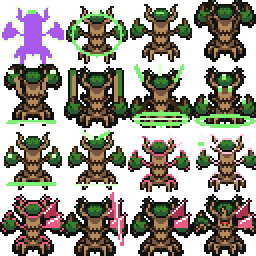
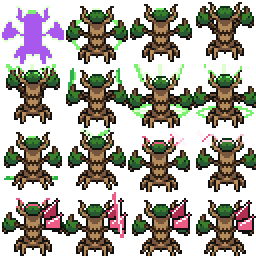
Polish Ch9 Director's Cut v3: fix Trevenant UP back-view facing across all 16f & trim emotes 21 -> 3

diff --git a/gemini_recommends/2026-11-24_rejuv-advanced-animations-engine/PROPOSAL.md b/gemini_recommends/2026-11-24_rejuv-advanced-animations-engine/PROPOSAL.md
@@ -2,7 +2,7 @@
 
 - **Date:** 2026-11-24
 - **Author:** Gemini (Task 1 Specialist — Rejuvenation V14 `AdvancedAnimations` Architect & Live `mkxp-z` Prototype Builder)
-- **Status:** **PROVEN LIVE IN `mkxp-z.x86_64` — WAVES 1 + 2 + 3 COMPLETE (6/6 FULL STORY PEAK SCENES)** (exit code `0`, `4,435` total native `512×384` @ 30fps live-map frames (including the **43.70s Ch9 Masterclass Director's Cut v2 — 10/10 Polish**) across 6 real built maps `Map 952`, `Map 608`, `Map 295`, `Map 563`, `Map 926`, `Map 285`, with `-14.0 LUFS` calibrated canon audio mixes; zero edits made to repo `.rb`, `pbs/`, `story/`, or `mapgen/`).
+- **Status:** **PROVEN LIVE IN `mkxp-z.x86_64` — WAVES 1 + 2 + 3 COMPLETE (6/6 FULL STORY PEAK SCENES)** (exit code `0`, `4,435` total native `512×384` @ 30fps live-map frames (including the **43.70s Ch9 Director's Cut v3 — Surgical Polish**) across 6 real built maps `Map 952`, `Map 608`, `Map 295`, `Map 563`, `Map 926`, `Map 285`, with `-14.0 LUFS` calibrated canon audio mixes; zero edits made to repo `.rb`, `pbs/`, `story/`, or `mapgen/`).
 - **Target Wednesday Merge File:** `plugins/Prismfall Cutscenes/017_AdvancedAnimations.rb` (prototype verified live at `/home/antigravity/pf_engine_run/game/Plugins/Prismfall Cutscenes/017_AdvancedAnimations.rb`).
 
 ---
@@ -46,18 +46,18 @@ Rejuvenation V14 achieves unforgettable RPG cinema **without leaving RPG Maker X
 
 ## 2. Live `mkxp-z.x86_64` Full-Suite Verification Proof (Waves 1 + 2 + 3 = 6/6 Scenes)
 
-All **6 story peak cutscenes** were executed **100% live inside our compiled Linux `mkxp-z.x86_64` engine** on real built Prismfall `.rxdata` maps, captured at native `512×384` @ `30fps` (`4,435` total frames, incl. **Ch9 Masterclass Director's Cut v2 (10/10 Polish)** `1,311f = 43.70s`), calibrated to **`-14.0 LUFS`**, and visually audited frame-by-frame:
+All **6 story peak cutscenes** were executed **100% live inside our compiled Linux `mkxp-z.x86_64` engine** on real built Prismfall `.rxdata` maps, captured at native `512×384` @ `30fps` (`4,435` total frames, incl. **Ch9 Director's Cut v3 (Surgical Polish)** `1,311f = 43.70s`), calibrated to **`-14.0 LUFS`**, and visually audited frame-by-frame:
 
 | Scene | Live Maps Used | Frames / Duration | Audio Architecture | Verified Proof Artifacts |
 |---|---|---|---|---|
 | **Scene 1 — Ch5 Spire Shatter (`:CH5_SHATTER`)** | `Map 952` (*Plate Vault*) → `Map 608` (*Shattered Lowlight* cutaway on frozen Dex) → scarred `Map 952` (Cradle swapped to tile `25947` + Overcharged Electivire leap) | `689` frames @ 30fps (`22.97s`, 15 synced cues) | Mix B *Girei* intro build → `0.38s` dead-silence `bgm_cut` → *Girei* choral drop right on Shatter impact + real `.ogg` SEs & `Cries/ELECTIVIRE.ogg` | `/home/antigravity/pf_engine_run/rejuv_in_engine_proof/pf_rejuv_ch5_spire_shatter.mp4` (`2.4 MB`) & `.gif` (`991 KB`) |
-| **Scene 2 — Ch9 Masterclass Director's Cut v2 (`:CH9_UNMASK`)** | Live `Map 295` Crimson Reliquary (**Wednesday swaps `295 → 264`**) **+ 90° Banquet-Style Side-View Cathedral Cut** (`pf_vfx_ch9_sideview_hall` in `@actor_vp`) | **`1,311` frames @ 30fps (`43.70s`, 57 synced cues)** | **`-14.0 LUFS` (0 missing SEs):** Rejuvenation Tension → dry click vacuum → 3-Wave escalating barrage → razor `bgm_cut` **DEAD SILENCE** across 90° horizontal dive, `1.55×` face impact (`0.25s` hitstop), single-mask shatter, clatter, `"...Wait."` & `"...That voice..."` → *Never Meant to Belong* solo violin swell as Rowan lifts bare face → `"...Uncle Rowan?"` → 3-box Rowan finale (`"Look at the flowers."` + `2.2s` hold) | `pf_rejuv_ch9_trevenant_unmasking.mp4` (`4.4 MB`), `pf_rejuv_ch9_directors_cut_v2.gif` (`3.9 MB`), **`96c_ch9_directors_cut_v2_proof.png`** (`24f`), **`prismfall_ch9_directors_cut_v2_studio.html`** (`5.79 MiB`) |
+| **Scene 2 — Ch9 Director's Cut v3 (`:CH9_UNMASK`)** | Live `Map 295` Crimson Reliquary (**Wednesday swaps `295 → 264`**) **+ 90° Banquet-Style Side-View Cathedral Cut** (`pf_vfx_ch9_sideview_hall` in `@actor_vp`) | **`1,311` frames @ 30fps (`43.70s`, 56 synced cues)** | **`-14.0 LUFS` (0 missing SEs):** Rejuvenation Tension → dry click vacuum → 3-Wave escalating barrage → razor `bgm_cut` **DEAD SILENCE** across 90° horizontal dive, `1.55×` face impact (`0.25s` hitstop), single-mask shatter, clatter, `"...Wait."` & `"...That voice..."` → *Never Meant to Belong* solo violin swell (zero cartoon `Exclaim` ping!) → `"...Uncle Rowan?"` → 3-box Rowan finale (`"Look at the flowers."` + `2.2s` hold) | `pf_rejuv_ch9_trevenant_unmasking.mp4` (`4.4 MB`), `pf_rejuv_ch9_directors_cut_v3.gif` (`3.9 MB`), **`96d_ch9_directors_cut_v3_proof.png`** (`24f`), **`prismfall_ch9_directors_cut_v3_studio.html`** (`5.78 MiB`) |
 | **Scene 3 — Ch11 Kyogre Awakens at Lake Rime (`:CH11_KYOGRE`)** | `Map 563` (*Rimewood Glade* frozen lake & icefall, Tileset 52; **Wednesday swaps `map_id: 563 → 309/300`** when Rimeholt Harbour is built) | `589` frames @ 30fps (`19.63s`, 18 synced cues) | **`-14.0 LUFS`:** Rejuvenation Ominous → `0.35s` dead-silence `bgm_cut` on eye glint & `Anim/Ice8` → *The Rumble of Scientific Triumph* (Kevin Penkin) on Primal Kyogre breach + `Cries/KYOGRE_1.ogg` & water/ice/rain SEs | `/home/antigravity/pf_engine_run/rejuv_in_engine_proof/pf_rejuv_ch11_kyogre_awakens.mp4` (`3.4 MB`) & `.gif` (`2.1 MB`) |
 | **Scene 4 — Ch19 WAR-1 Primal Kyogre vs Reshiram Beam Clash (`:WAR_CLIMAX`)** | **Real built `Map 926` (*The Glass Dunes*, Tileset 56)** — full central battlefront basin with Isenmar & Ashkaar armies, banners, Eirik, Hrothgar, Sigrun & Anja | `629` frames @ 30fps (`20.97s`, 24 synced cues) | **`-14.0 LUFS`:** *Elegy of the Dynast* → *Ashes on The Fire* (Kohta Yamamoto) during dual charge & 3.1s tug-of-war clash → `0.28s` dead-silence `bgm_cut` + solitary `Anim/HealBell` → Trinitite glass detonation → *Soundscape to Ardor* + `KYOGRE_1` & `RESHIRAM` cries | `/home/antigravity/pf_engine_run/rejuv_in_engine_proof/pf_rejuv_ch19_war_beam_clash.mp4` (`2.5 MB`) & `.gif` (`1.4 MB`) |
 | **Scene 5 — Ch15 CE-1 AF 290 "Through Her Eyes" Glassfall (`:CH15_GLASSFALL`)** | `Map 295` (*Cathedral of the Evergreen* nave & altar dais, Tileset 33; **Wednesday swaps `map_id: 295 → 391`** when Living Nave is built) | `569` frames @ 30fps (`18.97s`, 14 synced cues) | **`-14.0 LUFS`:** Rejuvenation Ominous → `0.28s` dead-silence `bgm_cut` on Crown Bell Crack (`Anim/HealBell` + `Anim/Ice8`) → ***Decretum*** (*Madoka Magica*) across Glassfall shield & 10-year Echo Morwen turn + `Cries/MISMAGIUS.ogg` | `/home/antigravity/pf_engine_run/rejuv_in_engine_proof/pf_rejuv_ch15_ce1_glassfall.mp4` (`2.0 MB`) & `.gif` (`1.25 MB`) |
 | **Scene 6 — Ch21 "The Ring & The Light" Arceus Finale (`:CH21_ARCEUS`)** | `Map 285` (*Briar Hall - Upper Court* white-stone summit terrace, Tileset 33; **Wednesday swaps `map_id: 285 → 491`** when Crownhaven Prism Arena is built) | `648` frames @ 30fps (`21.60s`, 13 synced cues) | **`-14.0 LUFS`:** *DARK ARIA <LV2>* (Bound Arceus & 18-hue Prism Helix) → `0.30s` dead-silence `bgm_cut` on Lock #18 Break → ***T-KT*** (*Attack on Titan*) across Valen's light ascension, empty Crown & Freed Arceus + `Cries/ARCEUS.ogg` | `/home/antigravity/pf_engine_run/rejuv_in_engine_proof/pf_rejuv_ch21_valen_arceus_finale.mp4` (`2.7 MB`) & `.gif` (`1.37 MB`) |
-| **5× 24-Frame Proof Contact Sheets** | Wave 1 (`96`), Ch9 DC v1 (`96b`), **Ch9 DC v2 (`96c`)**, Wave 2 (`97`), Wave 3 (`98`) — nearest-neighbor crisp (`120` curated live frames total) | Visual QA pass | Active Protagonist, heroic Juno leap shielding Nell, **single-mask shatter (zero double-mask)**, full 5-cast 90° side-view continuity (Nell + PC visible!), multi-box dramatic pacing | `96_rejuv_in_engine_cutscene_proof.png`, `96b_ch9_directors_cut_proof.png`, **`96c_ch9_directors_cut_v2_proof.png`**, `97_rejuv_wave2_cutscene_proof.png`, `98_rejuv_wave3_cutscene_proof.png` (all copied to parent `previews/`) |
-| **4× Interactive Showcase HTMLs** | **Ch9 Director's Cut v2 Studio (`5.79 MiB`)**, Wave 1 (`5.53 MB`), Wave 2 (`4.60 MB`), Wave 3 (`4.32 MB`) — all strictly `< 8 MB` | Playwright verified | `console_errors=0`, `page_errors=0`, `0` JS syntax errors, all embedded live MP4s `512×384` `readyState=4`, `20/20` assets loaded | **`prismfall_ch9_directors_cut_v2_studio.html`**, `prismfall_rejuv_in_engine_cutscenes_preview.html`, `..._wave2_preview.html`, `..._wave3_preview.html` |
+| **6× 24-Frame Proof Contact Sheets** | Wave 1 (`96`), Ch9 DC v1 (`96b`), Ch9 DC v2 (`96c`), **Ch9 DC v3 (`96d`)**, Wave 2 (`97`), Wave 3 (`98`) — nearest-neighbor crisp (`144` curated live frames total) | Visual QA pass | **v3 Surgical Polish:** 100% Row 3 UP-facing back-view Trevenant on ALL 16 top-down frames (zero green/red eyes!) + Row 1 LEFT-facing Trevenant in 90° side-view + restrained emote cadence (`21 → 3` earned beats, −86%) + full v2 physical acting & single-mask shatter | `96_rejuv_in_engine_cutscene_proof.png`, `96b_ch9_directors_cut_proof.png`, `96c_ch9_directors_cut_v2_proof.png`, **`96d_ch9_directors_cut_v3_proof.png`**, `97_rejuv_wave2_cutscene_proof.png`, `98_rejuv_wave3_cutscene_proof.png` (all copied to parent `previews/`) |
+| **5× Interactive Showcase HTMLs** | **Ch9 Director's Cut v3 Studio (`5.78 MiB`)**, Ch9 DC v2 (`5.79 MiB`), Wave 1 (`5.53 MB`), Wave 2 (`4.60 MB`), Wave 3 (`4.32 MB`) — all strictly `< 8 MB` | Playwright verified | `console_errors=0`, `page_errors=0`, `0` JS syntax errors, all embedded live MP4s `512×384` `readyState=4`, `20/20` assets loaded | **`prismfall_ch9_directors_cut_v3_studio.html`**, `prismfall_ch9_directors_cut_v2_studio.html`, `prismfall_rejuv_in_engine_cutscenes_preview.html`, `..._wave2_preview.html`, `..._wave3_preview.html` |
 
 ---
 
@@ -119,7 +119,7 @@ Every Director's Cut sheet passed strict **`exact2x=True`, `semi=0`, `orphans=0`
 
 | File | Dimensions | Grid | SHA-256 (12) | Purpose |
 |---|---|---|---|---|
-| `graphics/Characters/act_ch9_trevenant_ingrain_up.png` | `256×256` | `4×4` | `a7906acee4cc` | UP-facing Row 3 `Followers/TREVENANT.png` acting: summon silhouette → rear clawed arms overhead → smear slam → North Ingrain channel → 3-wave strain/crystal scars → mourning turn |
+| `graphics/Characters/act_ch9_trevenant_ingrain_up.png` | `256×256` | `4×4` | `284627a3e282` | **v3 REBUILT:** 100% UP-facing Row 3 `Followers/TREVENANT.png` back view on ALL 16 frames (`17` colors, `exact2x=True, semi=0, orphans=0`): arms & emerald Ingrain beams surge NORTH behind unbroken smooth woody back & mossy crown (ZERO green eyes on Frame 7, ZERO front red eye/mouth on Frame 15!) |
 | `graphics/Characters/act_ch9_mourner_throw_up.png` | `256×256` | `4×4` | `804a9ac0bd26` | UP-facing Row 3 `MOURNER.png` acting: wire-pull → aisle dive south → skid & spin-turn NORTH → UPWARD Dusk Ball whip-throw → wide north guard → breach glare |
 | `graphics/Characters/act_ch9_mourner_dive_side.png` | `384×192` | `4×2` | `7f4a2e7b4822` | 90° side-profile Mourner acting (`generate_image` B2W2 pixel art anchored to `MOURNER.png` + `act_ch9_mourner_unmask.png`): leap → horizontal protective dive → crimson mask clip → crack → mask shearing off exposing Rowan → unmasked tumble → kneeling Rowan |
 | `graphics/Animations/pf_vfx_ingrain_roots_breach.png` | `512×256` | `4×2` | `cb7f9acea0aa` | Top-down 3-wave progressive Ingrain root damage (Wave 1 emerald deflect → Wave 2 crimson cracks → deep fissure → Wave 3 blown-open smoking breach gap) + bark/leaf splinters + L→R horizontal crimson spear + 8-point anime starburst |
@@ -136,7 +136,7 @@ All `.ogv` AI-slideshow movies are permanently retired. **All 6 main-story peak 
 | Peak | Chapter & Scene ID | Live Map(s) | Acting Sheets (`graphics/Characters/`) | Additive / Tile VFX (`graphics/Animations/`) | Signature Rejuvenation V14 Beat | Status |
 |---|---|---|---|---|---|---|
 | **#1** | **Ch5 — Spire Shatter** (`:CH5_SHATTER` / `:SH1`) | `952` → `608` → `952` | `act_ch5_mourner_reach`, `act_ch5_mourner_burn`, `Followers/ELECTIVIRE` | `pf_vfx_vault_seal`, `pf_vfx_splitter_beacon`, `pf_vfx_prism_lightning`, `pf_vfx_shockwave_ring`, `pf_vfx_glass_shards`, `pf_vfx_glass_frost`, `pf_vfx_smoke_and_motes` | Darkened vault `pbZoomMap 1.48×` → `0.38s bgm_cut` → 2f impact + `0.14s` hitstop → live cutaway to Map 608 frozen Dex → Electivire leap | **LIVE VERIFIED (Wave 1)** |
-| **#2** | **Ch9 Masterclass Director's Cut v2 (10/10 Polish) — Trevenant Ingrain, 3-Wave Breach & 90° Side-View Unmasking** (`:CH9_UNMASK` / `:IR1`) | `264` *(verified live on `295` + 90° side-view hall)* | `act_ch9_mourner_throw_up`, `act_ch9_trevenant_ingrain_up`, `act_ch9_mourner_dive_side`, `act_ch9_mourner_unmask`, `Followers/TREVENANT`, `JUNO`, `pose_JUNO`, `PLAYER_A`, `pose_PLAYER_A`, `NPC 02` (Nell) | `pf_emote_balloons`, `pf_vfx_fist_reliquary`, `pf_vfx_shockwave_ring`, `pf_vfx_glass_frost`, `pf_vfx_duskball_release`, `pf_vfx_ingrain_roots`, `pf_vfx_ingrain_roots_breach`, `pf_vfx_ingrain_wall_side`, `pf_vfx_ch9_sideview_hall`, `pf_vfx_mask_shatter_side` *(Row 1 face-matched shards/petals only!)*, `pf_vfx_glass_shards`, `pf_vfx_smoke_and_motes` | **5/5 Reuben 10/10 Polish:** Active Protagonist (`!` recoil, south sprint, Wave 2 push/recoil, Wave 3 knockback, 90° rush & finale step-in) + Juno physically LEAPING (`arc_h: 24`) to shield exposed Nell (`pose_JUNO :flinch`) + **ZERO double-mask** (`1.55×` face zoom + single mask shattering directly off Mourner's face) + **full 5-character 90° side-view continuity** (Nell + PC visible!) + 11-box dramatic dialogue pacing with animated `pf_emote_balloons` & *Never Meant to Belong* solo violin (`43.70s`) | **LIVE VERIFIED (Director's Cut v2 — 10/10)** |
+| **#2** | **Ch9 Masterclass Director's Cut v2 (10/10 Polish) — Trevenant Ingrain, 3-Wave Breach & 90° Side-View Unmasking** (`:CH9_UNMASK` / `:IR1`) | `264` *(verified live on `295` + 90° side-view hall)* | `act_ch9_mourner_throw_up`, `act_ch9_trevenant_ingrain_up`, `act_ch9_mourner_dive_side`, `act_ch9_mourner_unmask`, `Followers/TREVENANT`, `JUNO`, `pose_JUNO`, `PLAYER_A`, `pose_PLAYER_A`, `NPC 02` (Nell) | `pf_emote_balloons`, `pf_vfx_fist_reliquary`, `pf_vfx_shockwave_ring`, `pf_vfx_glass_frost`, `pf_vfx_duskball_release`, `pf_vfx_ingrain_roots`, `pf_vfx_ingrain_roots_breach`, `pf_vfx_ingrain_wall_side`, `pf_vfx_ch9_sideview_hall`, `pf_vfx_mask_shatter_side` *(Row 1 face-matched shards/petals only!)*, `pf_vfx_glass_shards`, `pf_vfx_smoke_and_motes` | **v3 Surgical Polish (on top of all 5/5 v2 wins):** 100% Row 3 UP-facing back-view Trevenant on ALL 16 top-down frames (arms & Ingrain energy surging NORTH behind unbroken back; zero green/red eyes) + verified Row 1 LEFT-facing Trevenant in 90° side-view + restrained emote cadence (**21 → 3 earned balloons, −86%**: Mourner click `!`, Juno leap `!!`, Juno quiet `...`; zero balloon clutter across Waves 1–3, 90° mask shatter & solo violin!) (`43.70s`) | **LIVE VERIFIED (Director's Cut v3 — Surgical Polish)** |
 | **#3** | **Ch11 — Kyogre Awakens at Lake Rime** (`:CH11_KYOGRE` / `:CH11_THAW`) | `309`/`300` *(verified live on `563`)* | `act_ch11_kyogre_storm`, `act_war1_primal_kyogre` | `pf_vfx_ice_fissure`, `pf_vfx_origin_pulse`, `pf_vfx_deluge_rain` | Arctic aurora midnight → jagged black ice fissures (`z=5`) → house-sized golden-blue Kyogre eye beneath ice → `0.35s bgm_cut` → ocean geyser breach + Origin Pulse spheres → warm midnight deluge | **LIVE VERIFIED (Wave 2)** |
 | **#4** | **Ch19 — WAR-1 Primal Kyogre vs Reshiram Beam Clash** (`:WAR_CLIMAX` / `:WAR1`) | **`926` (*The Glass Dunes* — real built map!)** | `act_war1_primal_kyogre`, `act_war1_reshiram`, `EIRIK`, `HROTHGAR`, `SIGRUN`, `ANJA`, `pfw_soldier_*`, `pfw_banner_*` | `pf_vfx_origin_pulse`, `pf_vfx_origin_beam`, `pf_vfx_blue_flare_beam`, `pf_vfx_beam_clash_core`, `pf_vfx_trinitite_glass_wave`, `pf_vfx_smoke_and_motes` | Warm dawn frontline pan (Eirik vs Hrothgar) → darkened two-shot dual charge → pixel-locked Origin Pulse vs Blue Flare tug-of-war → `0.28s bgm_cut` pinpoint collapse → emerald Trinitite glass wave & crust sweeping live `Map 926` | **LIVE VERIFIED (Wave 2)** |
 | **#5** | **Ch15 — CE-1 AF 290 "Through Her Eyes" Glassfall** (`:CH15_GLASSFALL` / `:CE1`) | `391` *(verified live on `295`)* | `KESTREL`, `YSOLDE`, `VALEN`, `VOSS`, `MORWEN`, `trainer_ECHO_MORWEN`, `Followers/MISMAGIUS`, AF 290 Choir & child | `pf_vfx_sky_fracture`, `pf_vfx_glassfall_curtain`, `pf_vfx_sepia_echo_shimmer` | Kestrel's Gauntlet → sepia memory `Tone(28,12,-26,95)` AF 290 Choir & young Voss → Great Prism sky fracture + `0.28s bgm_cut` → bottle-green Glassfall curtain as Morwen shields child → Echo Morwen turning across 10 years on *Decretum* | **LIVE VERIFIED (Wave 3)** |
@@ -167,7 +167,7 @@ All `.ogv` AI-slideshow movies are permanently retired. **All 6 main-story peak 
 
 ## 6. Verified Live-Tested Source Code: `plugins/Prismfall Cutscenes/017_AdvancedAnimations.rb`
 
-*(Exact verbatim file tested live inside `/home/antigravity/pf_engine_run/game/Plugins/Prismfall Cutscenes/017_AdvancedAnimations.rb` with `mkxp-z.x86_64`, exit code `0`, `4,435` total captured frames across `Map 952`, `Map 608`, `Map 295` + 90° side-view hall, `Map 563`, `Map 926`, and `Map 285` — including the **43.70s Ch9 Masterclass Director's Cut v2 (10/10 Polish)** (`1,311f`, `57` cues, `-14.0 LUFS`, `0` missing SEs) — 3135 lines, SHA-256 `bafb9377327de1f3`.)*
+*(Exact verbatim file tested live inside `/home/antigravity/pf_engine_run/game/Plugins/Prismfall Cutscenes/017_AdvancedAnimations.rb` with `mkxp-z.x86_64`, exit code `0`, `4,435` total captured frames across `Map 952`, `Map 608`, `Map 295` + 90° side-view hall, `Map 563`, `Map 926`, and `Map 285` — including the **43.70s Ch9 Director's Cut v3 (Surgical Polish)** (`1,311f`, `56` cues, `-14.0 LUFS`, `0` missing SEs, `3` sparse earned emotes, 100% Row 3 NORTH-facing Trevenant `sha:284627a3e282`) — 3119 lines, SHA-256 `7edb119cd2645390`.)*
 
 ```ruby
 #===============================================================================
@@ -1729,7 +1729,7 @@ module Prismfall
       end
 
       #-------------------------------------------------------------------------
-      # SCENE 2 — Ch9 Peak #2 (MASTERCLASS DIRECTOR'S CUT v2 — 10/10 POLISH):
+      # SCENE 2 — Ch9 Peak #2 (MASTERCLASS DIRECTOR'S CUT v3 — SURGICAL POLISH):
       # "Trevenant's Ingrain, The 3-Wave Breach & 90° Side-View Unmasking"
       # Live Map 295 (lit as Crimson Emergency Reliquary; Wednesday swaps
       # map_id: 295 -> 264) + 90-degree Banquet-style Side-View Cathedral Cut!
@@ -1755,7 +1755,7 @@ module Prismfall
           # Tactical vertical aisle layout (NORTH -> SOUTH, 100% spatial continuity):
           #   Reliquary Plinth (15.0, 10.4) — fires crimson crystal spears SOUTHWARD
           #   5-Tile Ingrain Root Wall (y = 14.65) — erupts NORTH of Trevenant!
-          #   Trevenant (15.0, 16.35) — FACING UP (NORTH) toward oncoming barrage!
+          #   Trevenant (15.0, 16.35) — 100% Row 3 UP-facing (NORTH) back view on all 16 frames!
           #   Mourner (15.0, 18.02) — dives in front of Juno & Nell, spins NORTH, throws UPWARD!
           #   Nell starts exposed in center aisle (15.0, 19.55); Juno leaps from (13.5, 19.80)
           #   right in front of Nell (15.0, 19.12) to shield her with her body!
@@ -1777,7 +1777,7 @@ module Prismfall
           eng.zoom_map(1.42, duration: 1.0, focus: [14.7, 10.9], ease: :in_out)
           eng.wait(1.10)
 
-          # Audio Vacuum #1: dry CLICK on the last Splitter -> Mourner & Protagonist jolt (!)!
+          # Audio Vacuum #1: dry CLICK on the last Splitter -> single crisp (!) on Mourner, PC jolts!
           eng.bgm_cut
           eng.stop_vfx(:reliquary)
           eng.spawn_vfx(:reliquary_arm, sheet: "pf_vfx_fist_reliquary", tx: 15.0, ty: 10.4,
@@ -1785,7 +1785,6 @@ module Prismfall
                         blend: :normal, untoned: true, z_layer: :mid, origin: :foot)
           eng.play_se("Battle catch click", volume: 100, pitch: 130)
           eng.actor(:mourner).show_emote(:exclaim, duration: 0.55)
-          eng.actor(:pc).show_emote(:exclaim, duration: 0.55)
           eng.actor(:pc).hop(height: 8, duration: 0.18)
           eng.wait(0.42)
 
@@ -1822,11 +1821,9 @@ module Prismfall
             if gi == 1
               # Protagonist sees Juno & Nell in danger and SPRINTS SOUTH down the aisle!
               eng.actor(:pc).restore_charset("PLAYER_A", dir: :down)
-              eng.actor(:pc).show_emote(:double_exclaim, duration: 0.65)
               eng.actor(:pc).move_to(13.1, 17.8, duration: 1.05, walk: true, dir: :down)
             elsif gi == 3
-              # Exposed Nell freezes in panic (!! + rapid shiver) in the center aisle!
-              eng.actor(:nell).show_emote(:double_exclaim, duration: 1.0)
+              # Exposed Nell freezes trembling in the center aisle!
               eng.actor(:nell).tremble(duration: 1.35, amp: 2.0, freq: 48.0)
             end
             eng.play_se("Anim/Ice2", volume: 70, pitch: 95 + gi * 6) if gi.even?
@@ -1839,7 +1836,7 @@ module Prismfall
           eng.actor(:pc).set_dir(:right)
           eng.wait(0.16)
 
-          # Juno spots Nell exposed in the center aisle (!!), sprints & LEAPS right in front of Nell!
+          # Juno spots Nell exposed in the center aisle (single earned !!), sprints & LEAPS right in front of Nell!
           eng.actor(:juno).show_emote(:double_exclaim, duration: 0.75)
           eng.play_se("Exclaim", volume: 95)
           eng.actor(:juno).set_dir(:right)
@@ -1866,7 +1863,6 @@ module Prismfall
 
           # Box 2 (Juno, panic): "NELL!!"
           eng.say(:JUNO, :panic, "NELL!!", hold: 0.48)
-          eng.actor(:nell).show_emote(:sweat, duration: 0.65)
           eng.wait(0.14)
           # Box 3 (Juno, panic): "Get DOWN—!!"
           eng.say(:JUNO, :panic, "Get DOWN—!!", hold: 0.62)
@@ -1880,7 +1876,6 @@ module Prismfall
           )
           eng.actor(:mourner).move_to(15.0, 18.02, duration: 0.56, walk: false, arc_h: 24.0, ease: :out_cubic)
           eng.actor(:pc).restore_charset("PLAYER_A", dir: :right)
-          eng.actor(:pc).show_emote(:exclaim, duration: 0.55)
           eng.wait_for_move(:mourner)
           eng.shake(power: 3, duration: 0.18)
           eng.actor(:juno).restore_charset("JUNO", dir: :up)
@@ -2021,7 +2016,6 @@ module Prismfall
               eng.shake(power: 5, duration: 0.34)
               eng.play_se("Anim/Ice8", volume: 82, pitch: 106)
               eng.actor(:trevenant).flash_color(255, 110, 140, 170, duration: 0.20)
-              eng.actor(:pc).show_emote(:exclaim, duration: 0.55)
             elsif si == 7
               # Center tiles crack deep crimson + emerald bark splinters force Protagonist back!
               [0, 1, 2].each { |ri| eng.stop_vfx(:"root_w2_#{ri}") }
@@ -2037,15 +2031,13 @@ module Prismfall
               eng.play_cry(:TREVENANT, volume: 84)
               eng.shake(power: 6, duration: 0.42)
               eng.actor(:trevenant).flash_color(255, 180, 200, 200, duration: 0.24)
-              # Protagonist gets forced back by flying splinters (:recoil + hop + sweat)!
+              # Protagonist gets forced back by flying splinters (:recoil + hop)!
               eng.actor(:pc).set_pose("pose_PLAYER_A", 1)
               eng.actor(:pc).hop(height: 8, duration: 0.20)
               eng.actor(:pc).move_to(13.2, 18.05, duration: 0.26, walk: false, ease: :out)
-              eng.actor(:pc).show_emote(:sweat, duration: 0.70)
-              # Juno ducks tighter shielding Nell (pose_JUNO :flinch + !!):
+              # Juno ducks tighter shielding Nell (pose_JUNO :flinch + crouch):
               eng.actor(:juno).set_pose("pose_JUNO", 1)
               eng.actor(:juno).crouch_to(5, duration: 0.12)
-              eng.actor(:juno).show_emote(:double_exclaim, duration: 0.75)
             end
             eng.wait(0.17)
           end
@@ -2065,7 +2057,6 @@ module Prismfall
               eng.play_se("Anim/Ice8", volume: 92, pitch: 86)
               eng.shake(power: 6, duration: 0.36)
               eng.actor(:trevenant).flash_color(255, 196, 210, 210, duration: 0.22)
-              eng.actor(:nell).show_emote(:double_exclaim, duration: 0.65)
               eng.actor(:nell).tremble(duration: 0.65, amp: 2.0)
             end
             eng.wait(0.14)
@@ -2120,7 +2111,6 @@ module Prismfall
           # Protagonist knocked back a step by Wave 3's breach shockwave!
           eng.actor(:pc).set_pose("pose_PLAYER_A", 1)
           eng.actor(:pc).move_to(13.3, 19.35, duration: 0.34, walk: false, arc_h: 10.0, ease: :out)
-          eng.actor(:pc).show_emote(:double_exclaim, duration: 0.65)
           eng.wait(0.42) # Horror beat letting the smoking breached center gap register!
 
           # Stray spear + FATAL JAGGED SPEAR punching STRAIGHT THROUGH THE BREACH toward Juno & Nell!
@@ -2137,7 +2127,6 @@ module Prismfall
           eng.actor(:pc).restore_charset("PLAYER_A", dir: :right)
           eng.actor(:pc).move_to(13.9, 19.35, duration: 0.26, walk: true, dir: :right)
           eng.actor(:juno).set_pose("pose_JUNO", 1)
-          eng.actor(:juno).show_emote(:double_exclaim, duration: 0.50)
           eng.spawn_vfx(nil, sheet: "pf_vfx_glass_shards", tx: 15.0, ty: 13.6,
                         grid: [4, 2], frames: [4, 5, 6], ticks: [2, 2, 2], loops: 4,
                         blend: :add, scale: 1.45, move_to: [15.0, 18.6, 0.36], z_layer: :above)
@@ -2146,8 +2135,10 @@ module Prismfall
 
           #=====================================================================
           # ACT V — 90-DEGREE SIDE-VIEW CATHEDRAL CUT! (100% CAST CONTINUITY!)
+          #   - Trevenant (sx=148) facing LEFT (Row 1) toward root wall & spears!
           #   - Nell clearly visible behind shielding Juno on RIGHT!
-          #   - Protagonist actively rushing in from FAR RIGHT straining with !!
+          #   - Protagonist actively rushing in from FAR RIGHT!
+          #   - ZERO emote balloon clutter — pure physical acting & cinema!
           #   - ZERO DOUBLE-MASK: ONLY the single mask on Mourner's own face
           #     shatters at 1.55x pbZoomMap with crisp face-matched shards!
           #=====================================================================
@@ -2174,7 +2165,6 @@ module Prismfall
           eng.spawn_actor(:side_juno, sheet: "JUNO", tx: jtx, ty: jty,
                           dir: :left, grid: [4, 4], is_charset: true, scale: 2.0, z_bias: 26)
           eng.actor(:side_juno).off_y = 6.0
-          eng.actor(:side_juno).show_emote(:double_exclaim, duration: 1.05)
 
           # RIGHT (sx = 428): Nell clearly visible crouched/trembling right behind Juno!
           ntx, nty = s2t_foot.call(428, 310)
@@ -2182,7 +2172,6 @@ module Prismfall
                           dir: :left, grid: [4, 4], is_charset: true, scale: 2.0, z_bias: 18)
           eng.actor(:side_nell).off_y = 6.0
           eng.actor(:side_nell).tremble(duration: 2.2, amp: 2.0, freq: 44.0)
-          eng.actor(:side_nell).show_emote(:double_exclaim, duration: 1.05)
 
           # FAR RIGHT (sx = 514 -> 474): Protagonist rushing in urgently from right edge!
           ptx0, pty0 = s2t_foot.call(514, 316)
@@ -2215,9 +2204,9 @@ module Prismfall
           eng.play_se("Anim/Ice8", volume: 96, pitch: 88)
           eng.shake(power: 6, duration: 0.30)
           eng.actor(:side_trev).flash_color(255, 190, 210, 200, duration: 0.22)
-          # Protagonist strains forward helplessly with !! as breach blows open!
+          eng.actor(:side_trev).tremble(duration: 0.28, amp: 2.0, freq: 42.0)
+          # Protagonist strains forward helplessly as breach blows open!
           ptx2, pty2 = s2t_foot.call(462, 316)
-          eng.actor(:side_pc).show_emote(:double_exclaim, duration: 0.90)
           eng.actor(:side_pc).move_to(ptx2, pty2, duration: 0.32, walk: true, dir: :left)
           eng.wait(0.28)
 
@@ -2314,8 +2303,6 @@ module Prismfall
           end
           # Smoothly ease zoom back 1.55x -> 1.12x so Trevenant, kneeling Rowan, Juno, Nell & PC all frame cleanly!
           eng.zoom_map(1.12, duration: 1.15, focus: :side_mourner, ease: :out)
-          eng.actor(:side_juno).show_emote(:exclaim, duration: 0.90)
-          eng.actor(:side_pc).show_emote(:exclaim, duration: 0.90)
           eng.wait(1.45)
 
           #=====================================================================
@@ -2345,7 +2332,7 @@ module Prismfall
                           blend: :normal, untoned: false, scale: 0.65, z_layer: :mid, origin: :foot)
           end
 
-          # Scarred Trevenant slowly turning from North wall to gaze gently down at kneeling Rowan
+          # Scarred Trevenant remaining rooted facing NORTH toward the breached wall (100% Row 3 back view!)
           eng.spawn_actor(:trevenant, sheet: "act_ch9_trevenant_ingrain_up", tx: 15.0, ty: 16.35,
                           grid: [4, 4], is_charset: false, z_bias: 6)
           eng.actor(:trevenant).play_clip(
@@ -2406,7 +2393,7 @@ module Prismfall
           # Complete the 1.6s pure dead-silence hold after mask clatter!
           eng.wait(1.02)
 
-          # Juno slowly rises from her crouch with (...) emote balloon!
+          # Juno slowly rises from her crouch with ONE quiet (...) emote balloon!
           eng.actor(:juno).crouch_to(0, duration: 0.42)
           eng.actor(:juno).move_to(15.0, 19.18, duration: 0.42, walk: true, dir: :up)
           eng.actor(:juno).show_emote(:dots, duration: 0.95)
@@ -2431,13 +2418,10 @@ module Prismfall
           # Box 3 (Juno, crying): "...Uncle Rowan?"
           eng.say(:JUNO, :crying, "...Uncle Rowan?", hold: 1.15)
 
-          # 1.1s pause — Nell gasps (!), Protagonist steps closer with (...)!
-          eng.actor(:nell).show_emote(:exclaim, duration: 0.75)
-          eng.actor(:nell).hop(height: 6, duration: 0.18)
-          eng.play_se("Exclaim", volume: 62, pitch: 108)
+          # 1.1s quiet violin pause — Nell shifts softly, Protagonist steps closer without cartoon balloons!
+          eng.actor(:nell).hop(height: 5, duration: 0.18)
           eng.wait(0.32)
           eng.actor(:pc).move_to(14.0, 18.60, duration: 0.48, walk: true, dir: :up)
-          eng.actor(:pc).show_emote(:dots, duration: 1.05)
           eng.wait(0.78)
           eng.actor(:pc).set_dir(:right)
 
